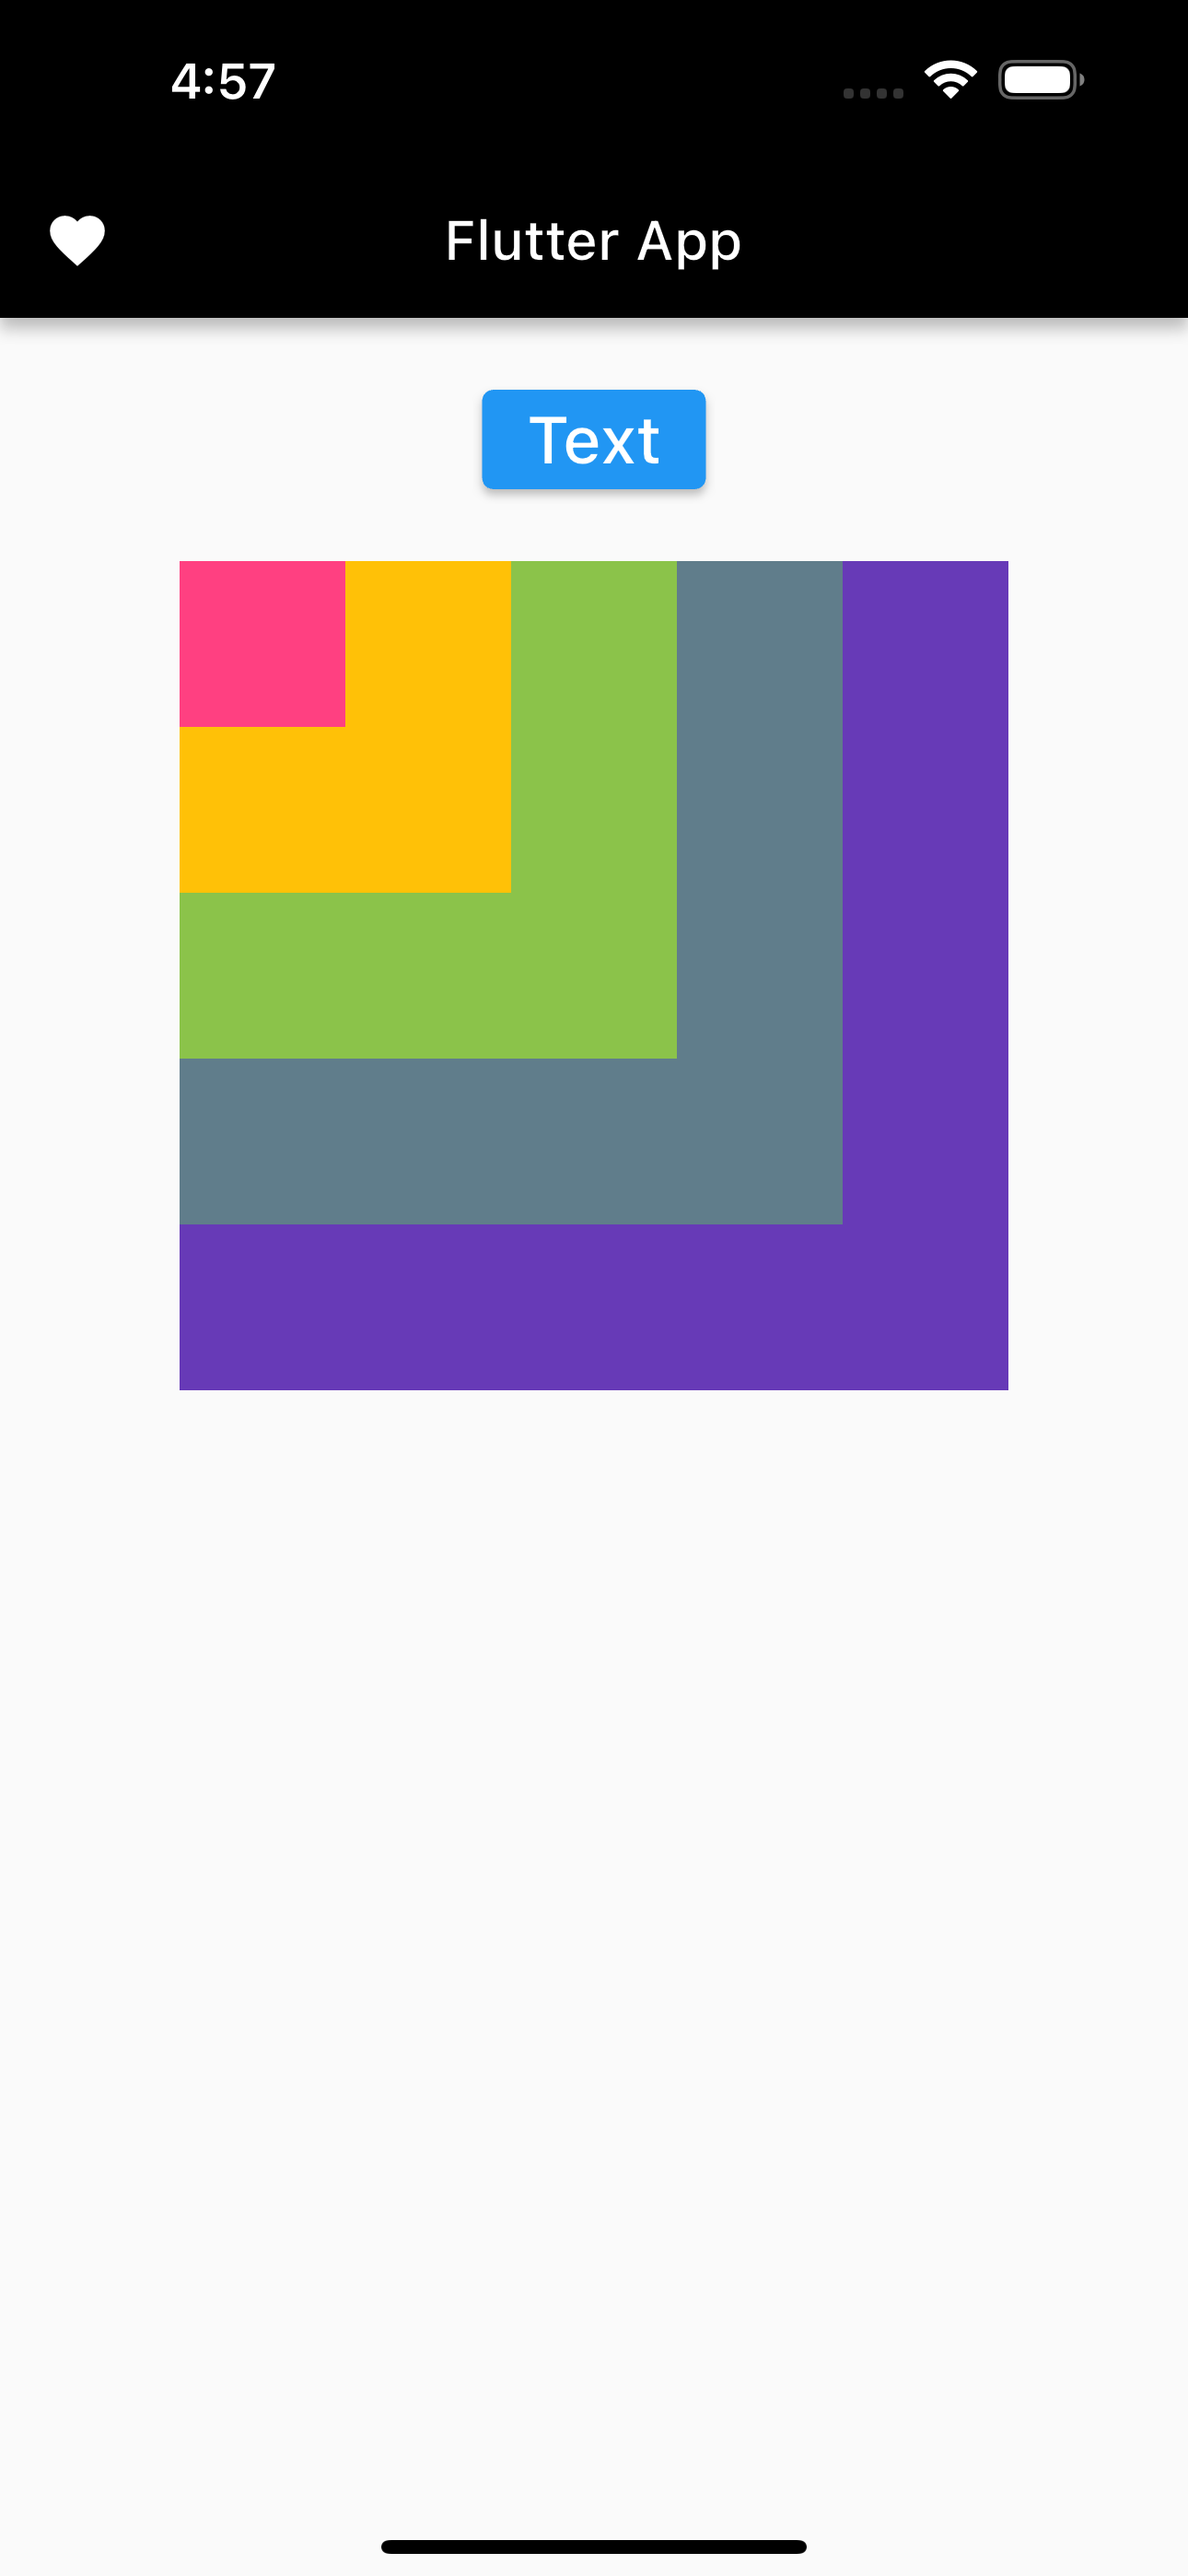
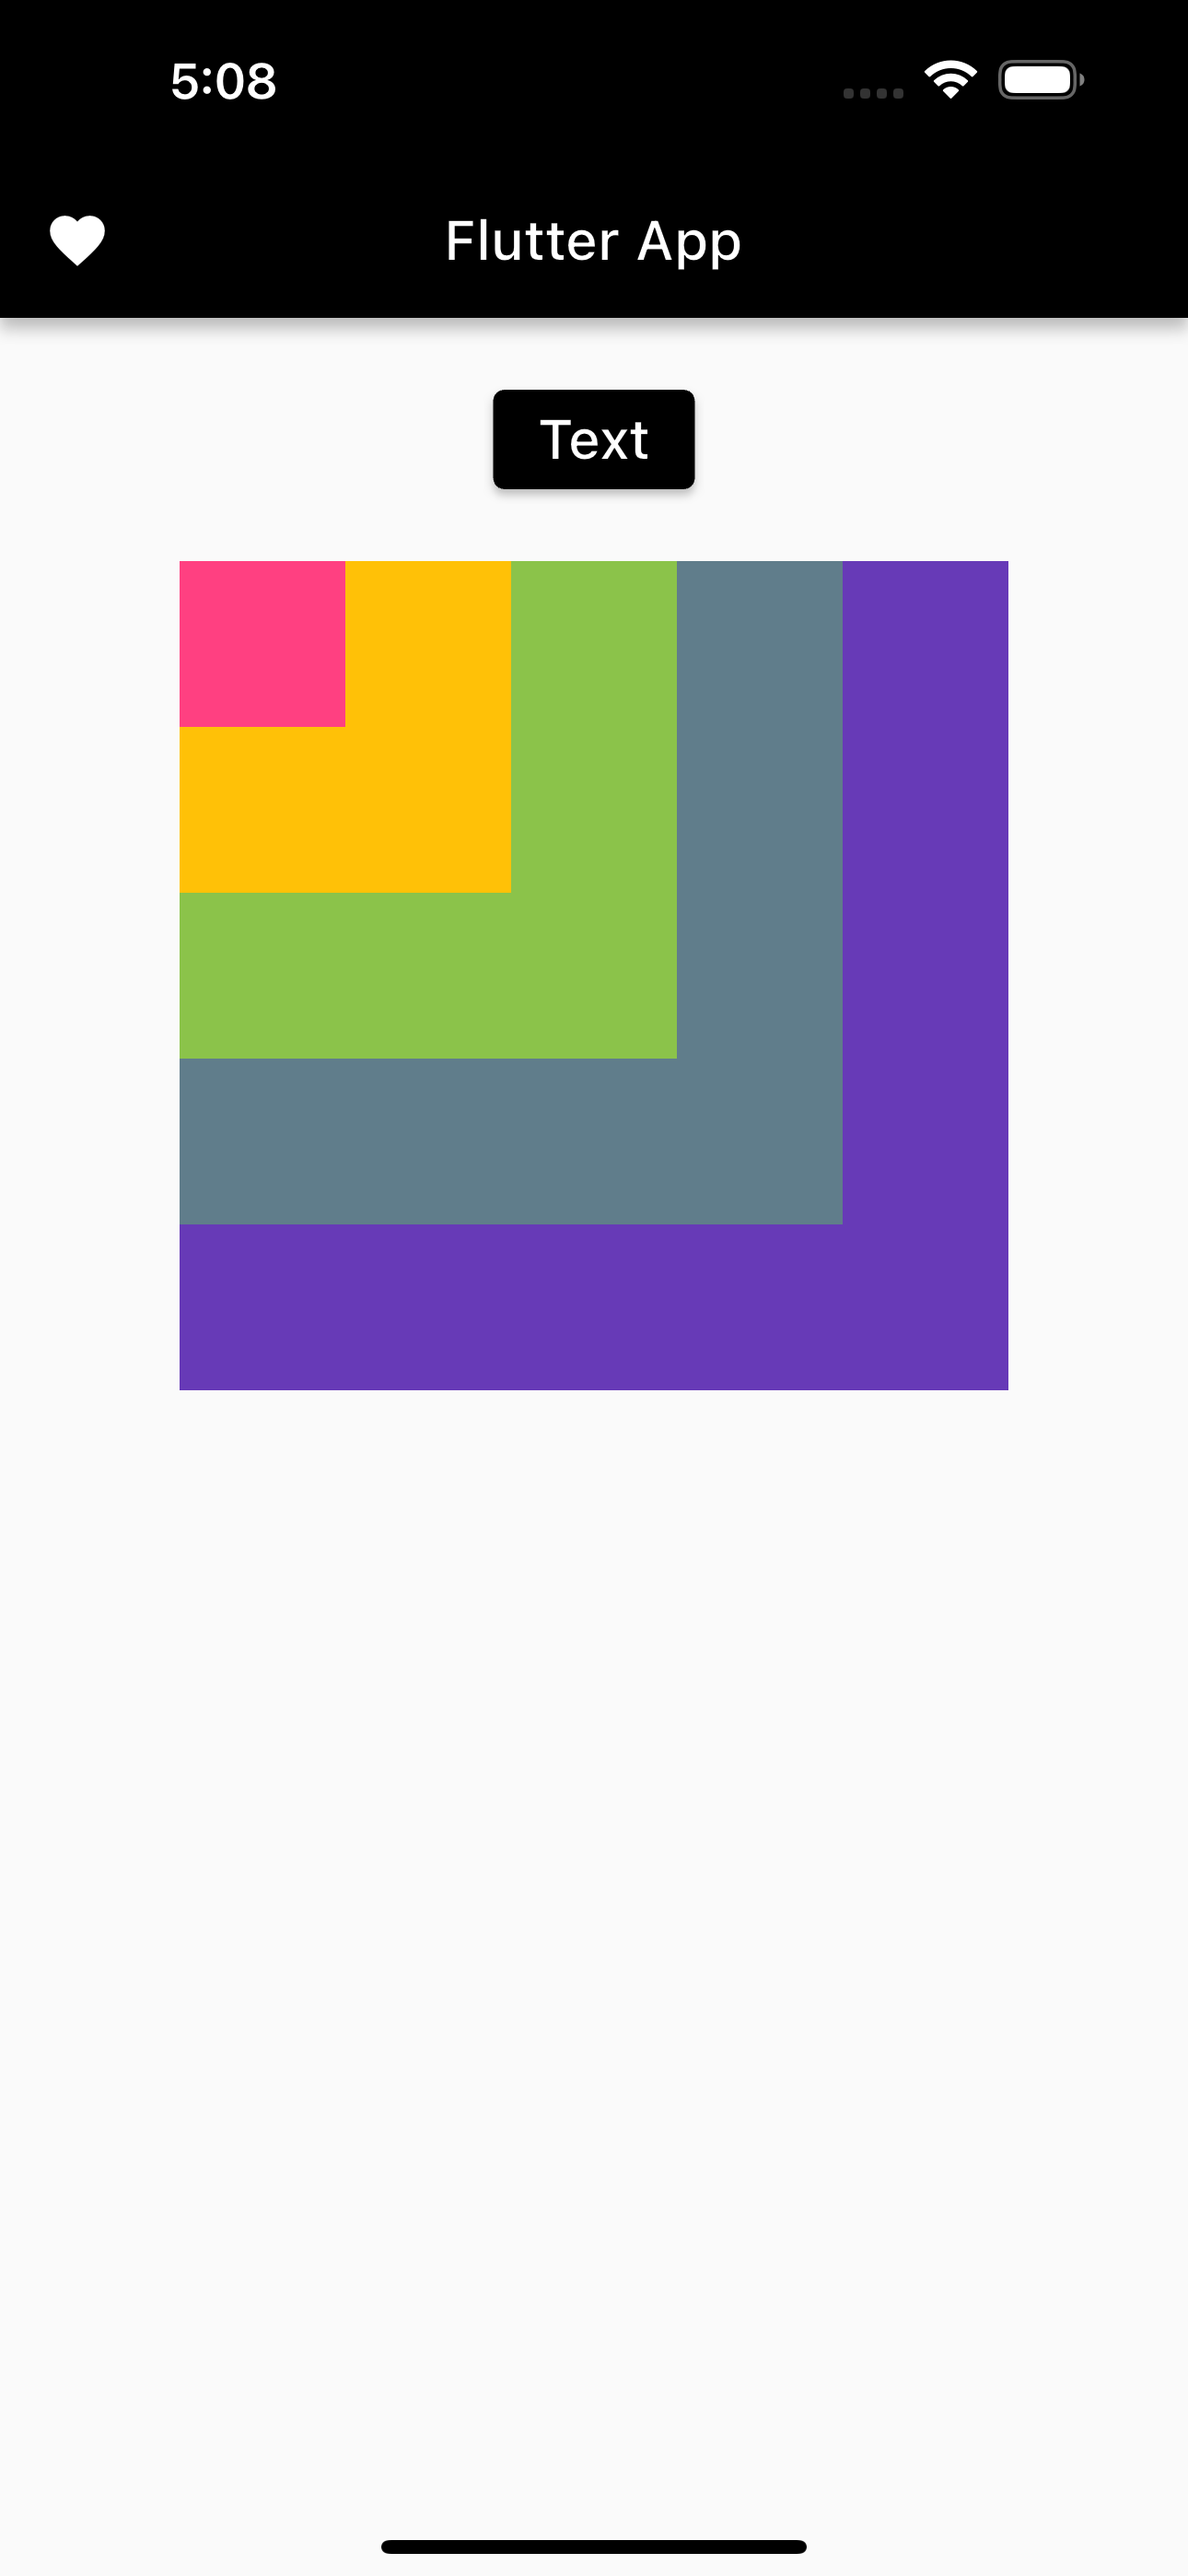
meh

Changed region(s): [[0.4031, 0.1245, 0.6202, 0.2178], [0.186, 0.0, 0.2171, 0.0622]]

diff --git a/Flutter_quest/flutter_3/componets.dart b/Flutter_quest/flutter_3/componets.dart
@@ -1,4 +1,4 @@
-// // // ignore_for_file: avoid_print
+// // ignore_for_file: avoid_print
 
 // import 'package:flutter/material.dart';
 
@@ -38,11 +38,14 @@
 //             child: Column(
 //               children: [
 //                 ElevatedButton(
+//                   style: ElevatedButton.styleFrom(
+//                     backgroundColor: Colors.black,
+//                   ),
 //                   onPressed: onChanged,
 //                   child: const Text(
 //                     'Text',
 //                     style: TextStyle(
-//                       fontSize: 24,
+//                       fontSize: 20,
 //                     ),
 //                   ),
 //                 ),
